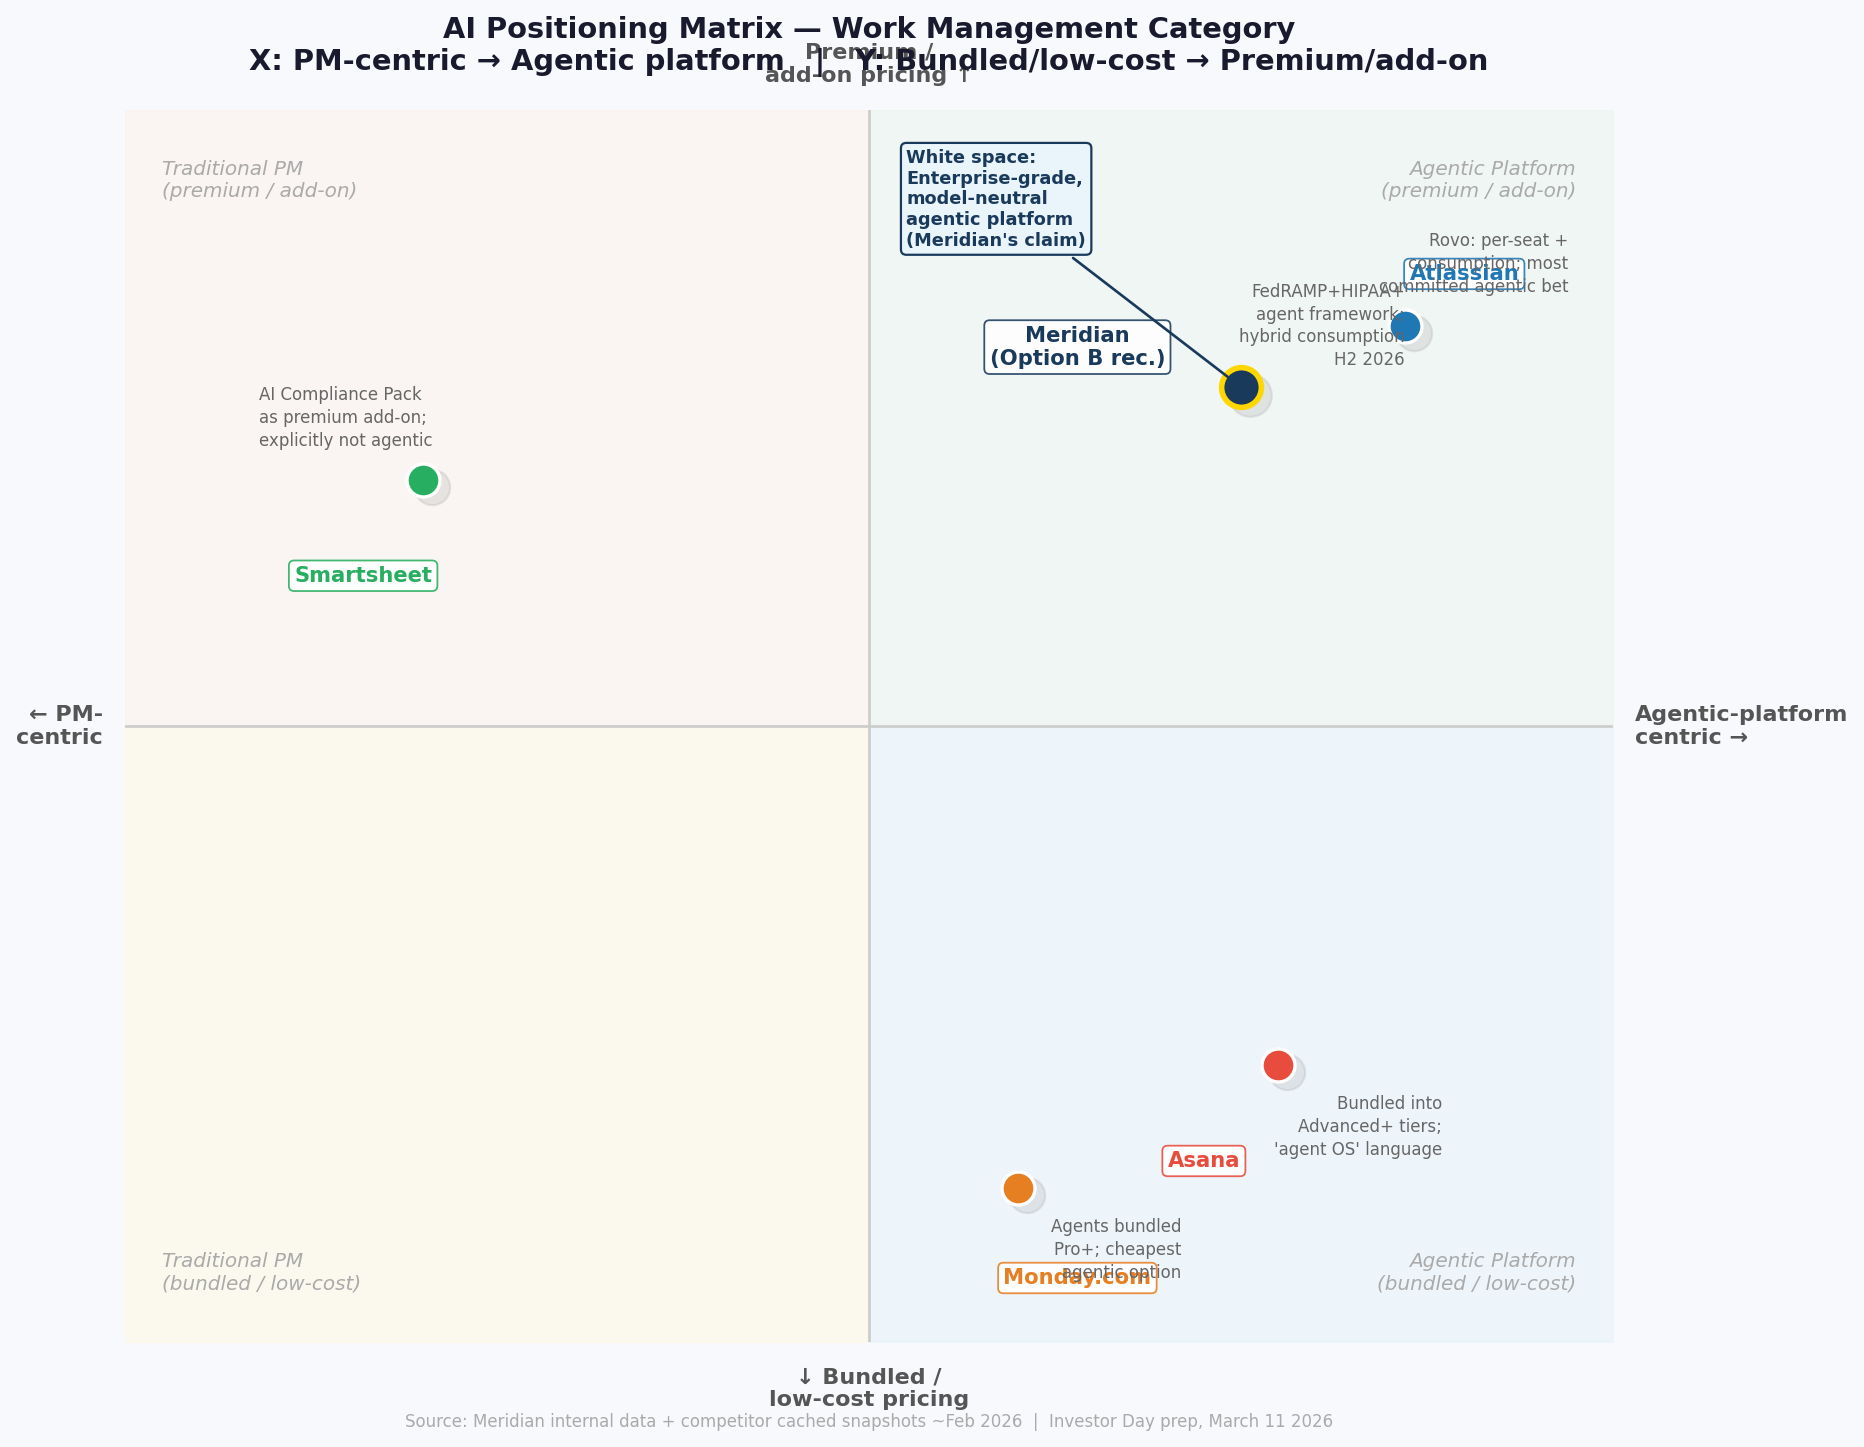
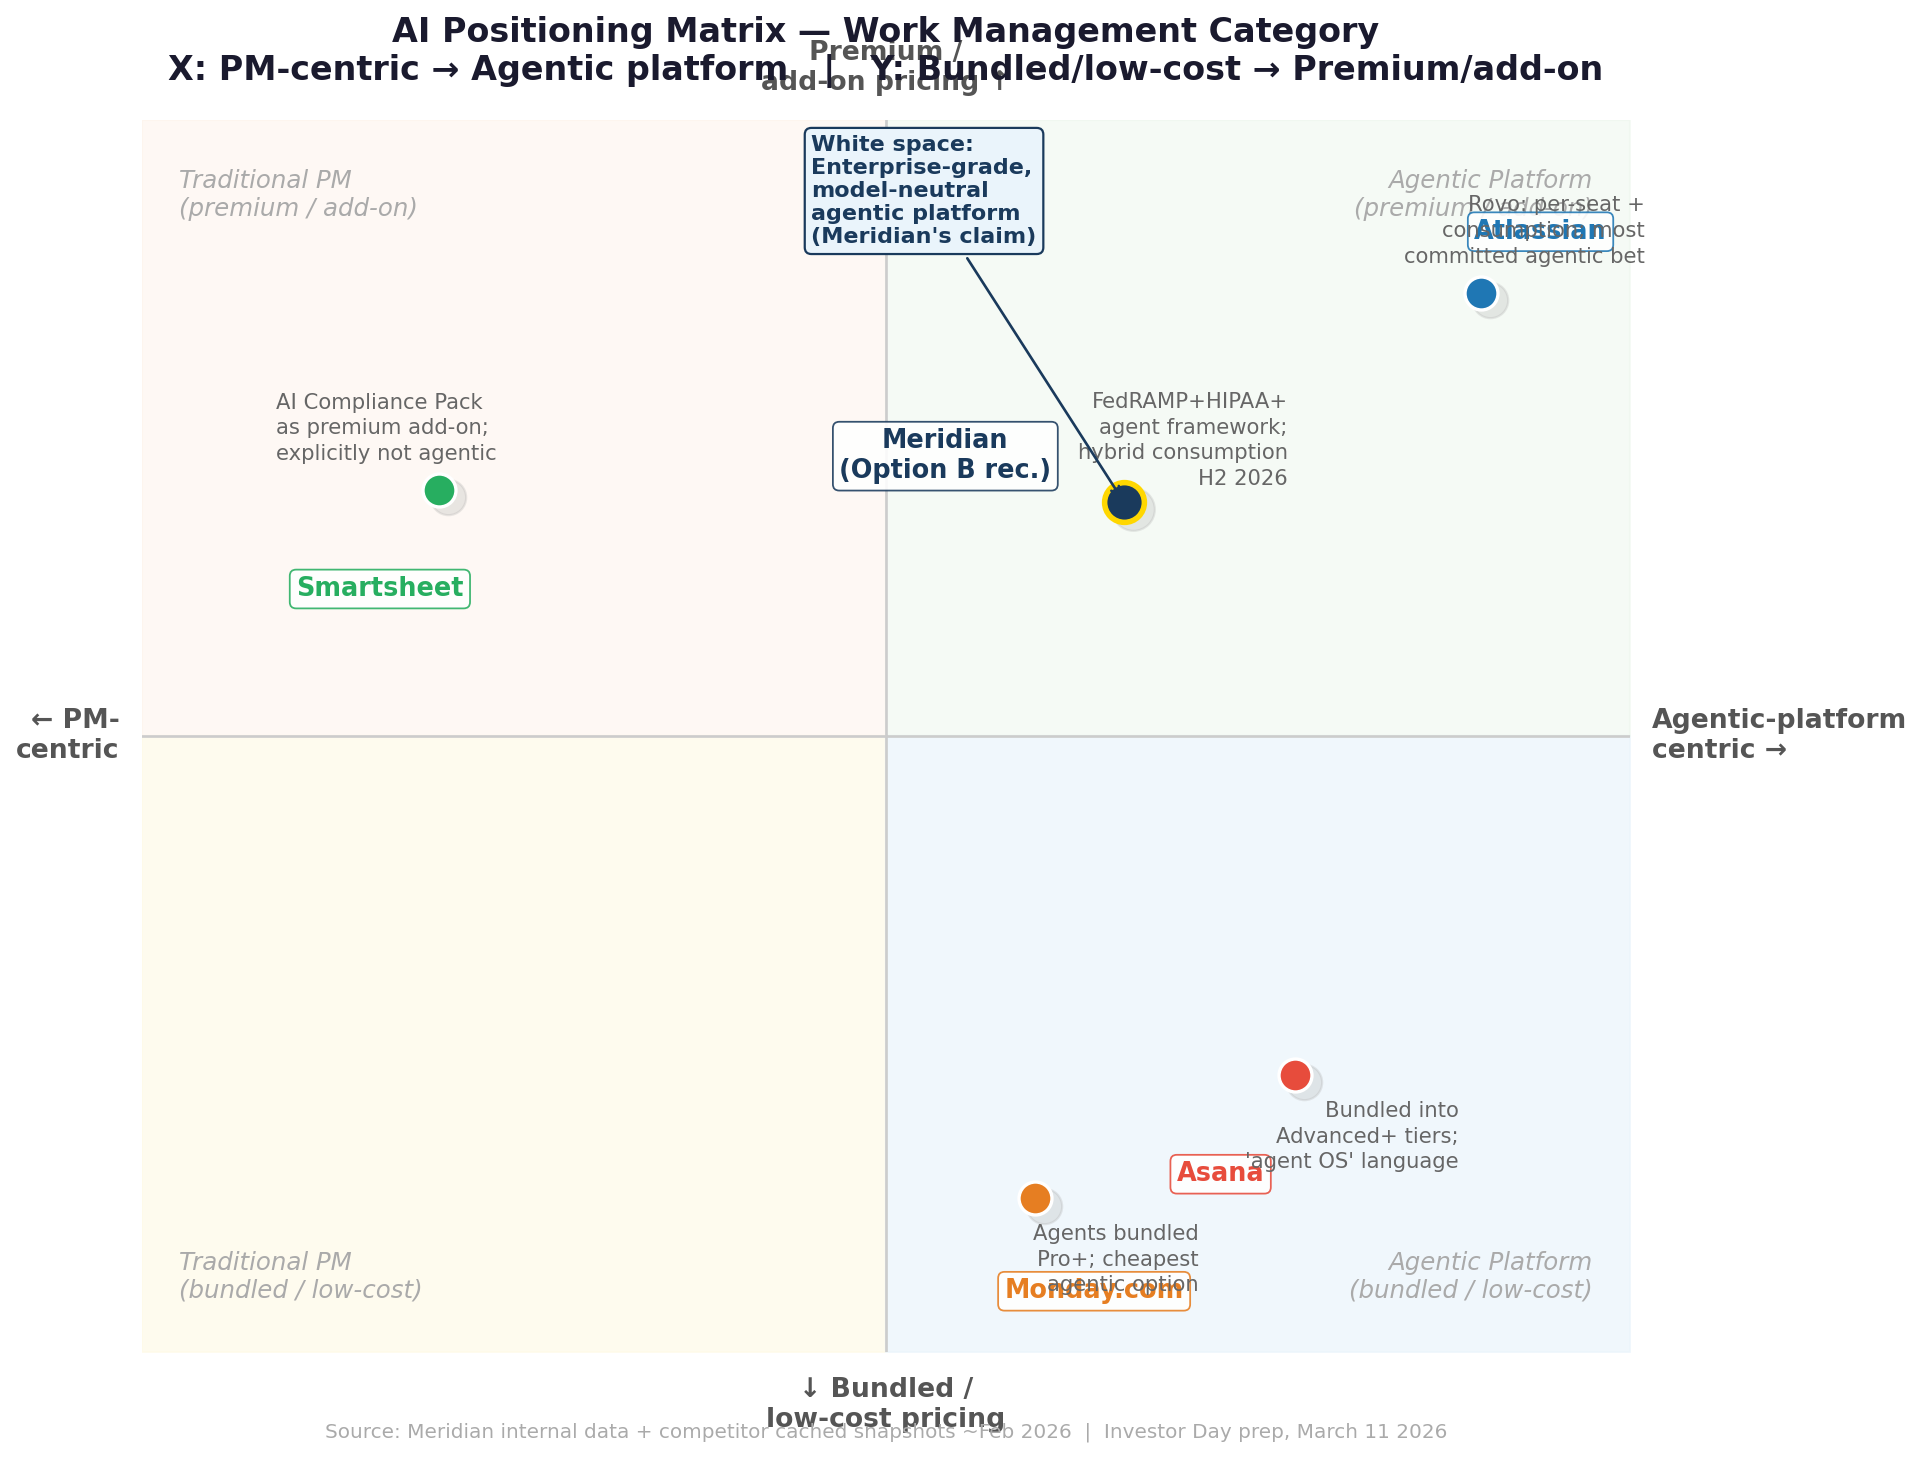
Update positioning matrix: larger fonts, transparent background, spread labels
https://claude.ai/code/session_01D964obrM7r6TuydQryZouf

diff --git a/positioning_matrix.py b/positioning_matrix.py
@@ -3,8 +3,8 @@ import matplotlib.patches as mpatches
 import numpy as np
 
 fig, ax = plt.subplots(figsize=(12, 10))
-fig.patch.set_facecolor("#F7F9FC")
-ax.set_facecolor("#F7F9FC")
+fig.patch.set_facecolor("none")
+ax.set_facecolor("none")
 
 # ── Axis ranges ───────────────────────────────────────────────────────────────
 ax.set_xlim(-1, 1)
@@ -17,7 +17,7 @@ ax.fill_between([-1, 0], [0, 0],   [1, 1],  color="#FDF2E9", alpha=0.5, zorder=0
 ax.fill_between([0, 1],  [0, 0],   [1, 1],  color="#EBF5EB", alpha=0.5, zorder=0)  # TR: agentic + premium
 
 # Quadrant labels
-quad_kw = dict(fontsize=9, color="#AAAAAA", fontstyle="italic", zorder=1)
+quad_kw = dict(fontsize=11, color="#AAAAAA", fontstyle="italic", zorder=1)
 ax.text(-0.95,  0.92, "Traditional PM\n(premium / add-on)",    va="top",    ha="left",  **quad_kw)
 ax.text( 0.95,  0.92, "Agentic Platform\n(premium / add-on)",  va="top",    ha="right", **quad_kw)
 ax.text(-0.95, -0.92, "Traditional PM\n(bundled / low-cost)",  va="bottom", ha="left",  **quad_kw)
@@ -38,10 +38,10 @@ ax.annotate("", xy=(1.02, 0),  xytext=(-1.02, 0),  arrowprops=dict(**arrow_kw))
 ax.annotate("", xy=(0, 1.02),  xytext=(0, -1.02),  arrowprops=dict(**arrow_kw))
 
 # Axis labels
-ax.text( 1.03,  0,     "Agentic-platform\ncentric →",  va="center", ha="left",  fontsize=10, fontweight="bold", color="#555555")
-ax.text(-1.03,  0,     "← PM-\ncentric",               va="center", ha="right", fontsize=10, fontweight="bold", color="#555555")
-ax.text( 0,     1.04,  "Premium /\nadd-on pricing ↑",  va="bottom", ha="center",fontsize=10, fontweight="bold", color="#555555")
-ax.text( 0,    -1.04,  "↓ Bundled /\nlow-cost pricing", va="top",   ha="center",fontsize=10, fontweight="bold", color="#555555")
+ax.text( 1.03,  0,     "Agentic-platform\ncentric →",  va="center", ha="left",  fontsize=12, fontweight="bold", color="#555555")
+ax.text(-1.03,  0,     "← PM-\ncentric",               va="center", ha="right", fontsize=12, fontweight="bold", color="#555555")
+ax.text( 0,     1.04,  "Premium /\nadd-on pricing ↑",  va="bottom", ha="center",fontsize=12, fontweight="bold", color="#555555")
+ax.text( 0,    -1.04,  "↓ Bundled /\nlow-cost pricing", va="top",   ha="center",fontsize=12, fontweight="bold", color="#555555")
 
 # ── Competitor data ───────────────────────────────────────────────────────────
 # (x = PM→Agentic  -1..+1,  y = bundled→premium  -1..+1)
@@ -52,9 +52,9 @@ players = [
          note="Agents bundled\nPro+; cheapest\nagentic option"),
     dict(name="Smartsheet",  x=-0.60, y= 0.40, color="#27AE60", size=220,
          note="AI Compliance Pack\nas premium add-on;\nexplicitly not agentic"),
-    dict(name="Atlassian",   x= 0.72, y= 0.65, color="#1F77B4", size=220,
+    dict(name="Atlassian",   x= 0.80, y= 0.72, color="#1F77B4", size=220,
          note="Rovo: per-seat +\nconsumption; most\ncommitted agentic bet"),
-    dict(name="Meridian\n(Option B\nrecommended)", x=0.50, y=0.55,
+    dict(name="Meridian\n(Option B\nrecommended)", x=0.32, y=0.38,
          color="#1A3A5C", size=320,
          note="FedRAMP+HIPAA+\nagent framework;\nhybrid consumption\nH2 2026"),
 ]
@@ -64,8 +64,8 @@ label_offsets = {
     "Asana":       (-0.10, -0.14),
     "Monday.com":  ( 0.08, -0.13),
     "Smartsheet":  (-0.08, -0.14),
-    "Atlassian":   ( 0.08,  0.10),
-    "Meridian\n(Option B\nrecommended)": (-0.22,  0.10),
+    "Atlassian":   ( 0.08,  0.12),
+    "Meridian\n(Option B\nrecommended)": (-0.24,  0.12),
 }
 
 for p in players:
@@ -85,7 +85,7 @@ for p in players:
     dx, dy = label_offsets[p["name"]]
     ax.text(p["x"] + dx, p["y"] + dy, short,
             ha="center", va="top",
-            fontsize=9.5, fontweight="bold", color=p["color"],
+            fontsize=11.5, fontweight="bold", color=p["color"],
             bbox=dict(boxstyle="round,pad=0.25", facecolor="white",
                       edgecolor=p["color"], linewidth=0.8, alpha=0.88),
             zorder=5)
@@ -97,14 +97,14 @@ for p in players:
     note_y = p["y"] + (0.10 if p["y"] > 0 else -0.10)
     ax.text(note_x, note_y, p["note"],
             ha=note_align, va="center",
-            fontsize=7.5, color="#666666", linespacing=1.35,
+            fontsize=9.5, color="#666666", linespacing=1.35,
             zorder=5)
 
 # ── "White space" callout ─────────────────────────────────────────────────────
 # Top-right quadrant: agentic + premium — Atlassian + Meridian zone
 ax.annotate("White space:\nEnterprise-grade,\nmodel-neutral\nagentic platform\n(Meridian's claim)",
-            xy=(0.50, 0.55), xytext=(0.05, 0.78),
-            fontsize=8, color="#1A3A5C", fontweight="bold",
+            xy=(0.32, 0.38), xytext=(-0.10, 0.80),
+            fontsize=10, color="#1A3A5C", fontweight="bold",
             arrowprops=dict(arrowstyle="->", color="#1A3A5C", lw=1.2),
             bbox=dict(boxstyle="round,pad=0.3", facecolor="#EAF4FB",
                       edgecolor="#1A3A5C", linewidth=1),
@@ -113,12 +113,12 @@ ax.annotate("White space:\nEnterprise-grade,\nmodel-neutral\nagentic platform\n(
 # ── Title & footer ────────────────────────────────────────────────────────────
 ax.set_title("AI Positioning Matrix — Work Management Category\n"
              "X: PM-centric → Agentic platform   |   Y: Bundled/low-cost → Premium/add-on",
-             fontsize=13, fontweight="bold", color="#1A1A2E", pad=18)
+             fontsize=15, fontweight="bold", color="#1A1A2E", pad=18)
 
 ax.text(0, -1.13,
         "Source: Meridian internal data + competitor cached snapshots ~Feb 2026  |  Investor Day prep, March 11 2026",
-        ha="center", va="center", fontsize=7.5, color="#AAAAAA", transform=ax.transData)
+        ha="center", va="center", fontsize=9, color="#AAAAAA", transform=ax.transData)
 
 out = "/home/user/Claude-session/positioning_matrix.png"
-plt.savefig(out, dpi=160, bbox_inches="tight", facecolor=fig.get_facecolor())
+plt.savefig(out, dpi=160, bbox_inches="tight", facecolor="none", transparent=True)
 print(f"Saved: {out}")
